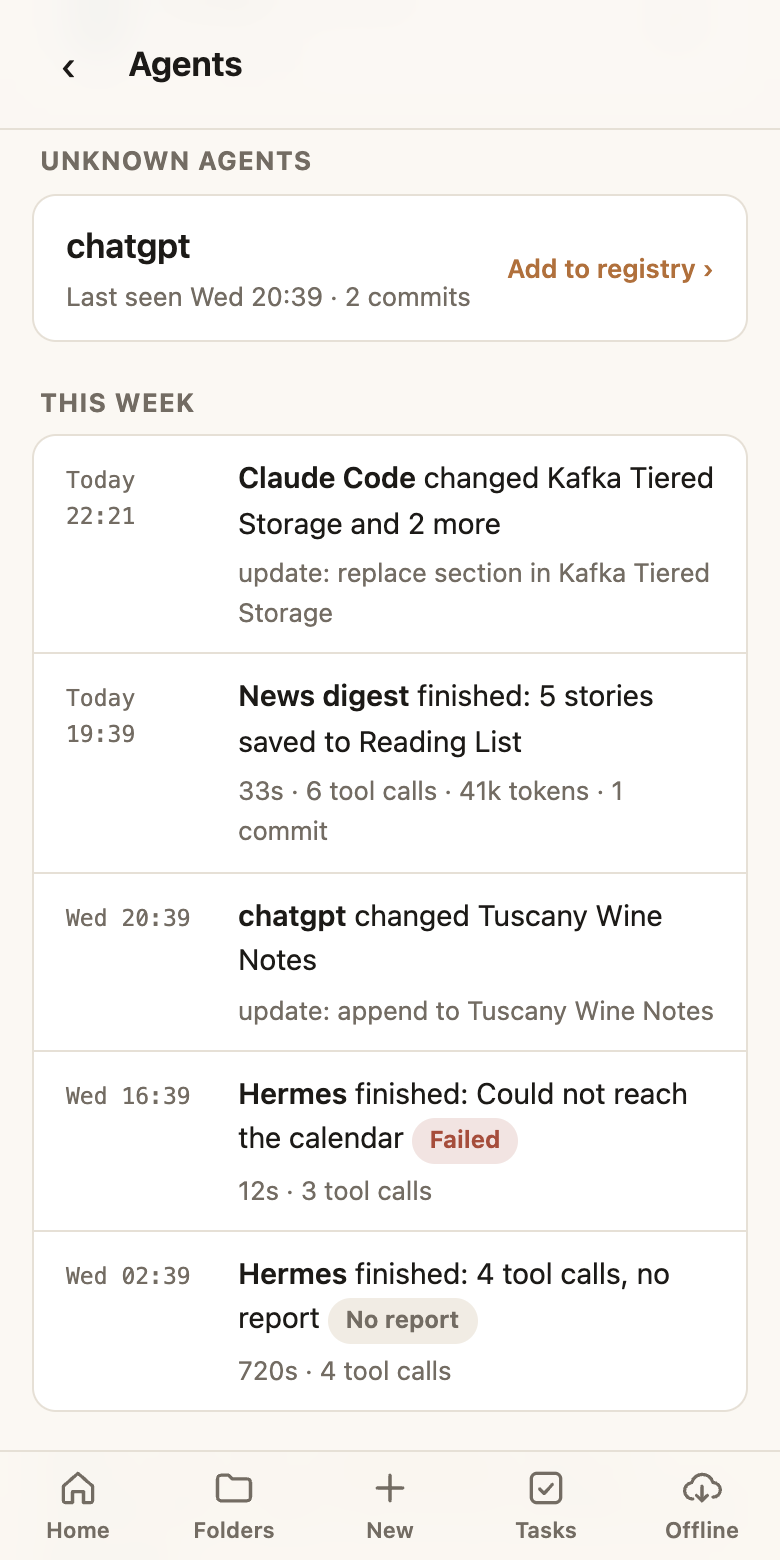
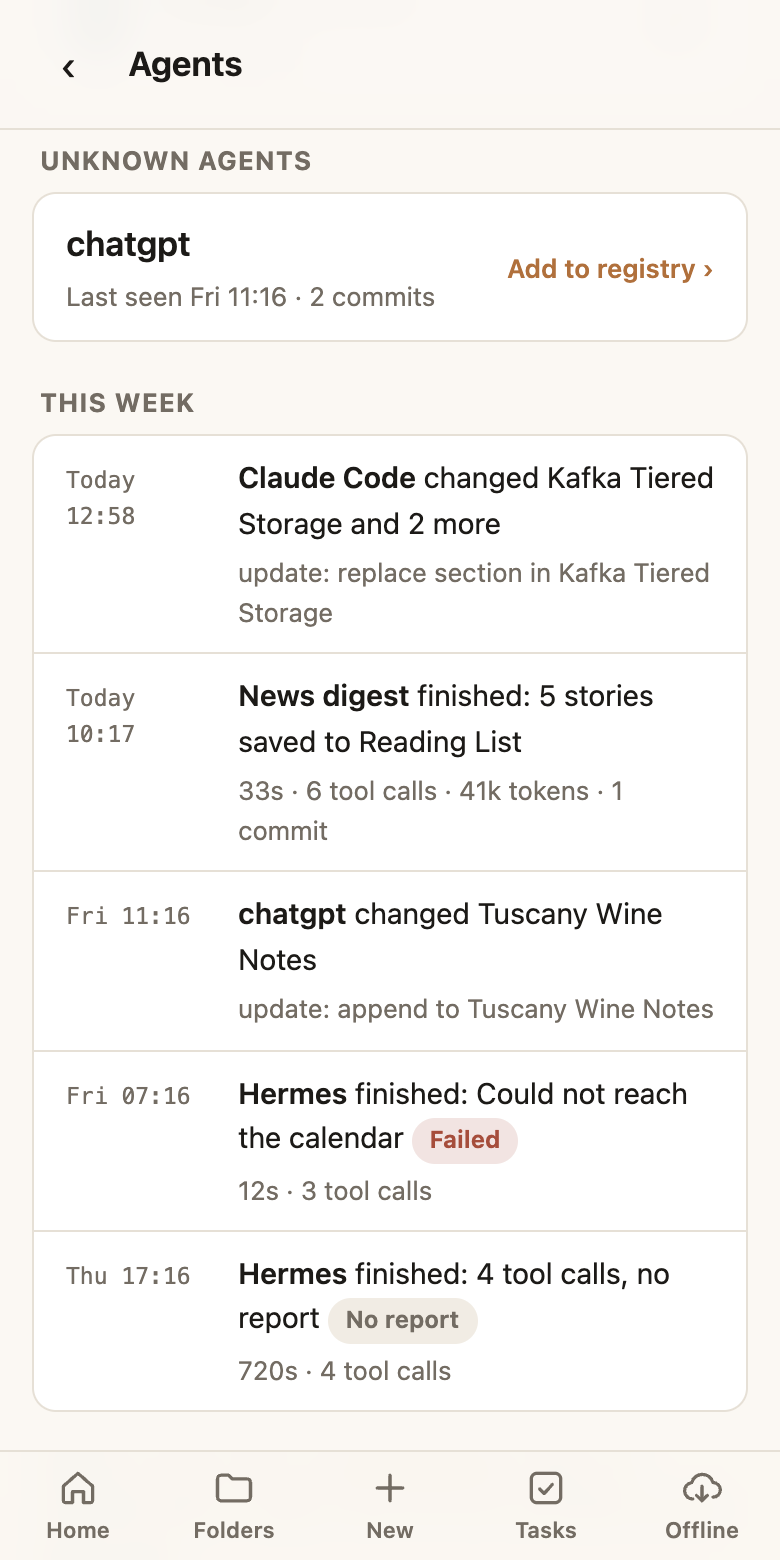
Proposals: a feature page of its own, with two worked agent prompts
- New Features > Proposals: the checkbox convention (tick, reject, IDs), who does what
  (the app vs your agent), setup, and two use cases with full instructions: a weekly
  tidy-up and a bills and renewals watcher.
- The docs no longer read as if a "gardener" agent ships with Unibrain: other pages
  link to Proposals and use neutral example names; the default tag is "proposals".
- Demo vault: a tidy-up report; Agents screenshots retaken, a Proposals one added.

diff --git a/docs/features/proposals.md b/docs/features/proposals.md
@@ -1,0 +1,133 @@
+---
+title: Proposals
+---
+
+# Proposals
+
+Let an agent suggest changes, and decide each one with a tap. The agent writes what it would do as a list of checkboxes. You **tick** the ones you want and **reject** the ones you don't. On its next run the agent does the ticked ones and nothing else.
+
+It is the safe way to hand an agent real work: tidying your vault, handling bills, preparing emails. Nothing happens until you say yes, and every answer is a line in a note with a history.
+
+<div class="shots" markdown>
+<figure markdown>
+![An agent's report: one proposal applied, one rejected, three waiting with Reject buttons](../assets/images/shot-proposals.png)
+<figcaption>A report of proposals: tick to approve, Reject to turn down</figcaption>
+</figure>
+</div>
+
+!!! note "Unibrain doesn't ship the agent"
+    Proposals is a convention for checkbox lines, plus what the web app does with them. The agent is yours: any AI connected to your vault, following instructions you write. Two complete examples are below.
+
+## What a proposal looks like
+
+A checkbox line that starts with an ID in bold:
+
+```markdown
+- [ ] **T15** In Home.md, fix the link [[Kafka]] to [[Kafka Tiered Storage]]. — replace_text
+```
+
+| The line starts | It means |
+|---|---|
+| `- [ ] **T15**` | Waiting for your answer |
+| `- [x] **T15**` | Approved: the agent does it on its next run |
+| `- [-] **T15**` | Rejected: the agent never does it and never suggests it again |
+
+The ID is one to three capital letters and a number (`T15`, `G7`, `BIL3`), first thing on the line. It is what makes the line a proposal instead of an ordinary checkbox, and it stays the same for the life of the proposal, so a report can repeat last week's unanswered ones.
+
+## Who does what
+
+| The web app | Your agent, from its instructions |
+|---|---|
+| Shows each proposal with a checkbox and a **Reject** button; a rejected one is crossed out, with **Undo** | Writes the report note and gives each proposal an ID |
+| Saves your answer into the note as `[x]` or `[-]`, so it is in the note's history | Reads the answers at the start of its next run |
+| Keeps proposals off your [Tasks](tasks.md) page, once the report's tag is under **Not todos** | Does the approved ones and marks each line with the result |
+| Lists unanswered proposals under **Needs you** in [mission control](mission-control.md), if you use it | Drops the rejected ones for good; repeats the unanswered ones under the same ID |
+
+## Set it up
+
+1. **Tag the reports.** Have the agent give every report note one tag, for example `proposals`.
+2. **Keep them off Tasks.** Add that tag under **Not todos** in [Vault settings](settings.md). Otherwise each proposal shows up as a todo.
+3. **Optional: see them in mission control.** With the [Agents page](mission-control.md) on, unanswered proposals in notes tagged `proposals` appear under **Needs you**. Using another tag? Set `proposalTag` in the [mission control settings](mission-control.md#settings-in-your-vault).
+
+Name reports so they sort by date, such as `Tidy-up 2026-10-04`. A proposal repeated in several reports is listed once, under the newest, and one answer anywhere counts in all of them.
+
+## Use case 1: a weekly tidy-up
+
+A scheduled agent checks the vault for misfiled notes, broken links and messy tags, and proposes the fixes. You spend two minutes a week ticking boxes; the vault stays in order.
+
+Run it on a timer (Claude Code headless, Hermes, or any scheduled assistant) with these instructions:
+
+```text
+You keep my Unibrain vault tidy. You only ever change what I approved.
+
+Each run:
+1. Call vault_guide and follow the rules it returns.
+2. Read your reports from the last 8 weeks, in the folder reports/ (named
+   "Tidy-up YYYY-MM-DD").
+3. Approved: for each proposal ID on a line that starts "- [x]" and has no
+   result mark yet, do exactly what the line says with the tool it names. Then
+   use replace_text to append " ✅ applied YYYY-MM-DD" to every line with that
+   ID, in every report. If it no longer makes sense or fails, append
+   " ⚠ skipped: <reason>" instead.
+4. Rejected: an ID on any line that starts "- [-]" is turned down for good.
+   Never apply it, never repeat it, and never propose the same change again
+   under a new ID. A rejection beats a tick on another line.
+5. Inspect the vault: vault_health, list_tags, the inbox folder, and
+   recent_changes since your last report.
+6. Write a new report with create_note: title "Tidy-up YYYY-MM-DD", folder
+   reports, tags [proposals, report]. In it:
+   - Summary: two sentences on the state of the vault.
+   - "## Still open": unanswered proposals from earlier reports, same IDs,
+     each with "(since YYYY-MM-DD)". Leave out any first proposed more than
+     3 weeks ago, and list those once under "## Dropped".
+   - "## Proposals": new ones, numbered on from the highest ID ever used.
+
+A proposal is one line: "- [ ] **T16** <one exact change: paths, tag names,
+new values>. <reason> — <tool>". One change per line, at most 20 new ones,
+the most useful first.
+
+Never delete anything (archive instead). Never rewrite my prose. Never make a
+change that is not on an approved line.
+```
+
+## Use case 2: a bills and renewals watcher
+
+A scheduled agent reads your bills note, and your email if it is connected, and proposes what to do about each thing coming due. Anything touching money or sent in your name is worth a yes first.
+
+```text
+You watch my bills and renewals. You prepare; I decide. You never pay, send,
+cancel or sign up for anything yourself.
+
+Each run:
+1. Call vault_guide. Read home/Bills.md and your reports from the last
+   6 weeks in reports/ (named "Bills YYYY-MM-DD").
+2. Approved: for each proposal ID on a line that starts "- [x]" with no
+   result mark, do what it says inside the vault: add the entry to the log in
+   home/Bills.md, add a dated todo, or write the draft email as a new note.
+   Then append " ✅ done YYYY-MM-DD" to every line with that ID.
+3. Rejected: an ID on a line that starts "- [-]" is turned down. Leave it
+   alone and do not raise the same bill again until its next cycle.
+4. Look for: bills due in the next 30 days, renewals at a higher price than
+   last time, and subscriptions my notes say I no longer use.
+5. Write a report with create_note: title "Bills YYYY-MM-DD", folder reports,
+   tags [proposals, report]. First "## Still open" (unanswered, same IDs),
+   then "## Proposals" (new, numbered on from the highest ID ever used).
+
+A proposal is one line with the amount and the date, for example:
+"- [ ] **B7** Car insurance, €412, renews 30 Nov (was €389). Add a todo
+'Compare car insurance quotes' due 15 Nov. — append_to_note"
+"- [ ] **B8** Draft an email cancelling the unused gym membership, as a note
+in home/drafts. — create_note"
+
+Never write account numbers, card numbers or passwords into a note.
+```
+
+## Tips
+
+- **Rejecting is better than ignoring.** An ignored proposal comes back every week; a rejected one is gone.
+- **Changed your mind?** Tap **Undo** on a rejected line, or untick an approved one, any time before the agent's next run.
+- **Ask in chat instead:** *"Approve T13 and T16 in the latest tidy-up report, reject T15."* Any connected agent can edit the lines for you.
+- **Keep each line exact.** "Move `inbox/Rome.md` to `travel/`" can be approved at a glance; "tidy the inbox" cannot.
+- **Start strict.** Once you trust an agent with a kind of change, let its instructions say it may do that kind without asking.
+
+The author's own vault has a tidy-up agent built exactly this way, called the gardener. It is one person's agent, not part of Unibrain; yours can do something else entirely.

diff --git a/docs/guides/multi-agent.md b/docs/guides/multi-agent.md
@@ -14,7 +14,7 @@ Unibrain is built for several agents writing to one vault, safely. Here's a setu
 | **Brainstorm Partner** | a Claude Project | turns conversations into plans and decisions |
 | **Coding agent** | Claude Code | keeps project specs, decisions and diagrams current |
 | **Hermes** | your server, Telegram | quick captures, briefings, starting other jobs |
-| **Gardener** | Claude Code on a timer | weekly tidy-up proposals |
+| **Tidy-up agent** | Claude Code on a timer | weekly tidy-up proposals |
 
 Each one [signs its writes](named-agents.md), so you always know who did what.
 
@@ -27,14 +27,14 @@ Put the rules all agents share in [`AGENTS.md`](agents-md.md). Two that work esp
 
 ## 3. A weekly tidy-up agent with checkbox approvals
 
-A scheduled agent keeps the vault clean without ever surprising you:
+A scheduled agent can keep the vault clean without ever surprising you, using [Proposals](../features/proposals.md):
 
 1. **Sunday morning**, it runs (Claude Code on a timer, for example), checks vault health, tags and folders, and writes a **report note** of numbered proposals, each a checkbox:
-   `- [ ] **G3** Move "Rome restaurants" from inbox/ to travel/italy/`
-2. **You tick** the proposals you like, on your phone, and tap **Reject** on the ones you never want (the line becomes `- [-]`).
-3. **Its next run applies only the ticked ones**, signs every change, drops the rejected ones for good, and carries the rest forward. Tell the agent in its instructions that `- [-]` means rejected.
+   `- [ ] **T3** Move "Rome restaurants" from inbox/ to travel/italy/`
+2. **You tick** the proposals you like, on your phone, and tap **Reject** on the ones you never want.
+3. **Its next run applies only the ticked ones**, signs every change, drops the rejected ones for good, and carries the rest forward.
 
-Tag its reports (for example `#gardener`) and add that tag under **Not todos** in [Vault settings](../features/settings.md), so its proposals don't clutter your todo list.
+This agent is one you set up, not something Unibrain runs for you. The [Proposals](../features/proposals.md#use-case-1-a-weekly-tidy-up) page has the full instructions to give it, and a second example for bills.
 
 ## 4. Review on your phone
 

diff --git a/docs/features/mission-control.md b/docs/features/mission-control.md
@@ -188,7 +188,7 @@ What `report_run` takes:
 Newest first, each with one place to go. Nothing is dismissed by hand: an item goes away when the thing behind it is dealt with. The **?** beside the title says how, in the app.
 
 - **Agents that are overdue or failed.** Clears when the agent next runs successfully.
-- **Proposals to approve or reject:** unanswered lines such as `- [ ] **G16** File the inbox notes` in notes tagged `gardener`. Open the report and tick a proposal to approve it, or tap **Reject** beside it to turn it down for good. Rejecting writes `- [-]`, shown crossed out with an **Undo** button. A proposal repeated in several reports is listed once, under the newest, and one answer anywhere counts for all of them. See [a weekly tidy-up agent](../guides/multi-agent.md#3-a-weekly-tidy-up-agent-with-checkbox-approvals).
+- **[Proposals](proposals.md) to approve or reject:** unanswered lines such as `- [ ] **T16** File the inbox notes` in notes tagged `proposals`. Open the report and tick a proposal to approve it, or tap **Reject** beside it to turn it down for good. A proposal repeated in several reports is listed once, under the newest, and one answer anywhere counts for all of them.
 - **What an agent asked you to look at**, from its last report. Replaced by its next run.
 - **Rollbacks** the [safety net](safety.md) caught in the last week. Ticking or unticking a task in the app is never counted as one.
 
@@ -236,7 +236,7 @@ The switch and four values are in `.brain/settings.json`, under `missionControl`
 |---|---|---|
 | `enabled` | The switch | `false` |
 | `registryFolder` | The folder of agent notes | `Agents/Registry` |
-| `proposalTag` | The tag of notes whose unticked proposals count as waiting for you | `gardener` |
+| `proposalTag` | The tag of notes whose unanswered [proposals](proposals.md) count as waiting for you | `proposals` |
 | `retentionDays` | Days of recordings kept | `30` |
 | `runIdleClose` | A run with no tool call for this long is closed as *No report* | `2h` |
 

diff --git a/docs/use-cases.md b/docs/use-cases.md
@@ -68,10 +68,10 @@ Give each agent a job and a name, and let them work in the same vault:
 
 - **A research librarian** (a Claude Project named Igor) that files findings carefully.
 - **A brainstorming partner** that turns conversations into plans.
-- **A weekly tidy-up agent** that checks for broken links, duplicates and misfiled notes, and writes its *proposals* to a report. You approve each one with a checkbox on your phone; only then does it act.
+- **A weekly tidy-up agent** that checks for broken links, duplicates and misfiled notes, and writes its [proposals](features/proposals.md) to a report. You tick or reject each one on your phone; only then does it act.
 - **An always-on assistant** (Hermes) that you message from Telegram.
 
-Every change shows who made it: `Igor (claude)`, `claude-code-gardener`, or whatever name you gave Hermes. If something looks wrong, the history shows exactly what happened, and the safety net flags anything that rolled notes back. See [Run a team of agents](guides/multi-agent.md).
+Every change shows who made it: `Igor (claude)`, `claude-code-tidy-up`, or whatever name you gave Hermes. If something looks wrong, the history shows exactly what happened, and the safety net flags anything that rolled notes back. See [Run a team of agents](guides/multi-agent.md).
 
 ## Brainstorm, then keep the good parts
 

diff --git a/docs/connect/claude-code.md b/docs/connect/claude-code.md
@@ -13,7 +13,7 @@ claude mcp add --transport http --scope user unibrain https://unibrain.dev/mcp
 Restart Claude Code, run **`/mcp`**, select **unibrain → Authenticate**, and sign in with GitHub.
 
 !!! tip "The name you choose shows up in your history"
-    Claude Code labels its changes with the name you give the connection: added as `unibrain`, its commits show as `claude-code-unibrain`. Use a different name per machine or per job (for example `gardener` for a scheduled tidy-up agent) to tell them apart.
+    Claude Code labels its changes with the name you give the connection: added as `unibrain`, its commits show as `claude-code-unibrain`. Use a different name per machine or per job (for example `tidy-up` for a scheduled tidy-up agent) to tell them apart.
 
 ## Great uses
 

diff --git a/tools/screenshots/vault/reports/Tidy-up 2026-10-04.md b/tools/screenshots/vault/reports/Tidy-up 2026-10-04.md
@@ -1,0 +1,20 @@
+---
+title: Tidy-up 2026-10-04
+tags:
+  - proposals
+  - report
+source: claude-code-tidy-up
+---
+
+Summary: 9 notes, 1 broken link, 1 note in the inbox. One proposal from last week was applied.
+
+## Still open
+
+- [x] **T12** (since 2026-09-27) Move `inbox/Reading List.md` to `tech/`. — move_note ✅ applied 2026-10-04
+- [ ] **T13** (since 2026-09-27) Tag `travel/Siena Restaurants.md` with `italy` and `food`. — set_properties
+
+## Proposals
+
+- [-] **T14** Archive `talks/Team Update.md`: the talk was in September. — archive
+- [ ] **T15** In `Home.md`, fix the link `[[Kafka]]` to `[[Kafka Tiered Storage]]`. — replace_text
+- [ ] **T16** Rename the tag `#wines` to `#wine` (2 notes). — rename_tag

diff --git a/docs/guides/named-agents.md b/docs/guides/named-agents.md
@@ -28,4 +28,4 @@ Start a new chat so the assistant picks it up. From then on:
 
 - **No name, no problem.** An agent that doesn't sign (or forgets) shows under its app's name, as before.
 - **Names are labels, not proof.** The agent reports its own name, so use it to tell your agents apart, not as security. Access is always limited to your own vault.
-- **Claude Code** is labelled by the name you gave the connection (`claude mcp add … gardener …` shows as `claude-code-gardener`), so give each job its own.
+- **Claude Code** is labelled by the name you gave the connection (`claude mcp add … tidy-up …` shows as `claude-code-tidy-up`), so give each job its own.

diff --git a/docs/guides/markdown.md b/docs/guides/markdown.md
@@ -14,6 +14,7 @@ Notes are plain Markdown following **Obsidian's conventions**, so they're readab
 | `#tag`, `#trip/italy` | a tag (tap it to see all notes with it) |
 | `> [!tip] Title` then `> text` | a callout: note, tip, warning, danger, question, example, quote, success, bug… `[!tip]-` starts collapsed |
 | `- [ ] task 📅 2026-10-05` | a todo with a due date |
+| `- [-] task` | a rejected task, crossed out (see [Proposals](../features/proposals.md)) |
 | `==highlight==` | highlighted text |
 | `%%comment%%` | a comment hidden when reading |
 | `[^1]` and `[^1]: text` | a footnote |

diff --git a/docs/features/safety.md b/docs/features/safety.md
@@ -13,7 +13,7 @@ Every change, by you or any agent, is a **Git commit in your own repo**:
 ```text
 Igor (claude, brain-mcp)      note: add Kafka tiered storage (igor via claude)
 web (brain-mcp)               update: check task in travel/Tuscany Trip.md (web)
-claude-code-gardener          organize: archive Projects/old-idea.md (claude-code-gardener)
+claude-code-tidy-up           organize: archive Projects/old-idea.md (claude-code-tidy-up)
 ```
 
 - The **author** says which app made the change, and which named agent if it gave one.

diff --git a/docs/features/tasks.md b/docs/features/tasks.md
@@ -28,6 +28,8 @@ Checkboxes mean two things, and Unibrain keeps them apart:
 
 Which tags count as lists is up to you, in [Vault settings](settings.md).
 
+A third kind of checkbox is an agent's **proposal**, waiting for your yes or no. Those have a page of their own: [Proposals](proposals.md).
+
 ## Due dates
 
 Add a due date in the Obsidian Tasks format, `📅 YYYY-MM-DD`, at the end of the line. Overdue and due-today items get red and orange badges, and notes with the soonest due task come first.

diff --git a/docs/features/index.md b/docs/features/index.md
@@ -26,6 +26,10 @@ title: Features
 
     Every todo from every note, with due dates, ticked off in place.
 
+-   :material-check-decagram-outline: __[Proposals](proposals.md)__
+
+    Let an agent suggest changes as checkboxes. Tick to approve, reject the rest; it does only what you approved.
+
 -   :material-cloud-download-outline: __[Offline reading](offline.md)__
 
     Keep whole folders on your phone, with their images and diagrams.
